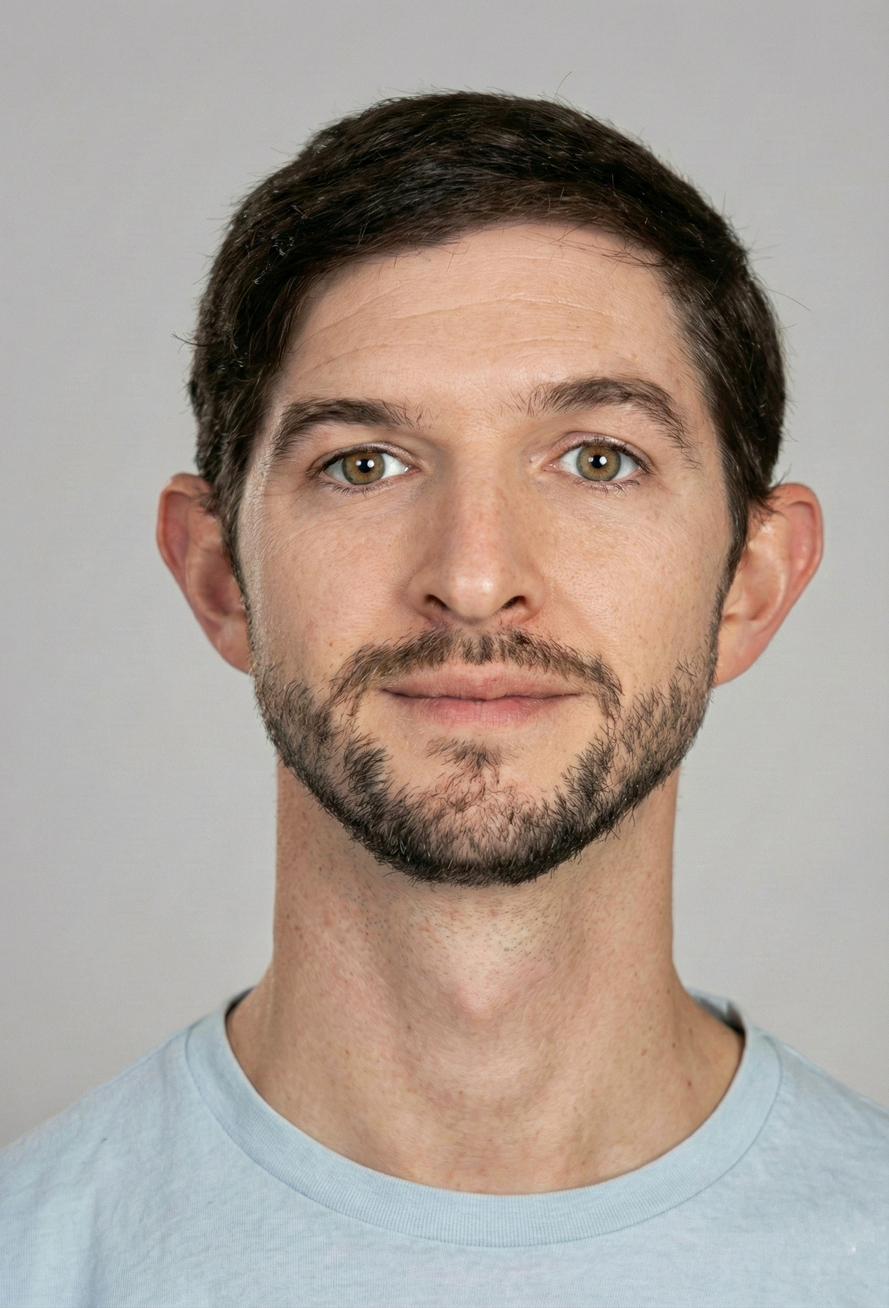
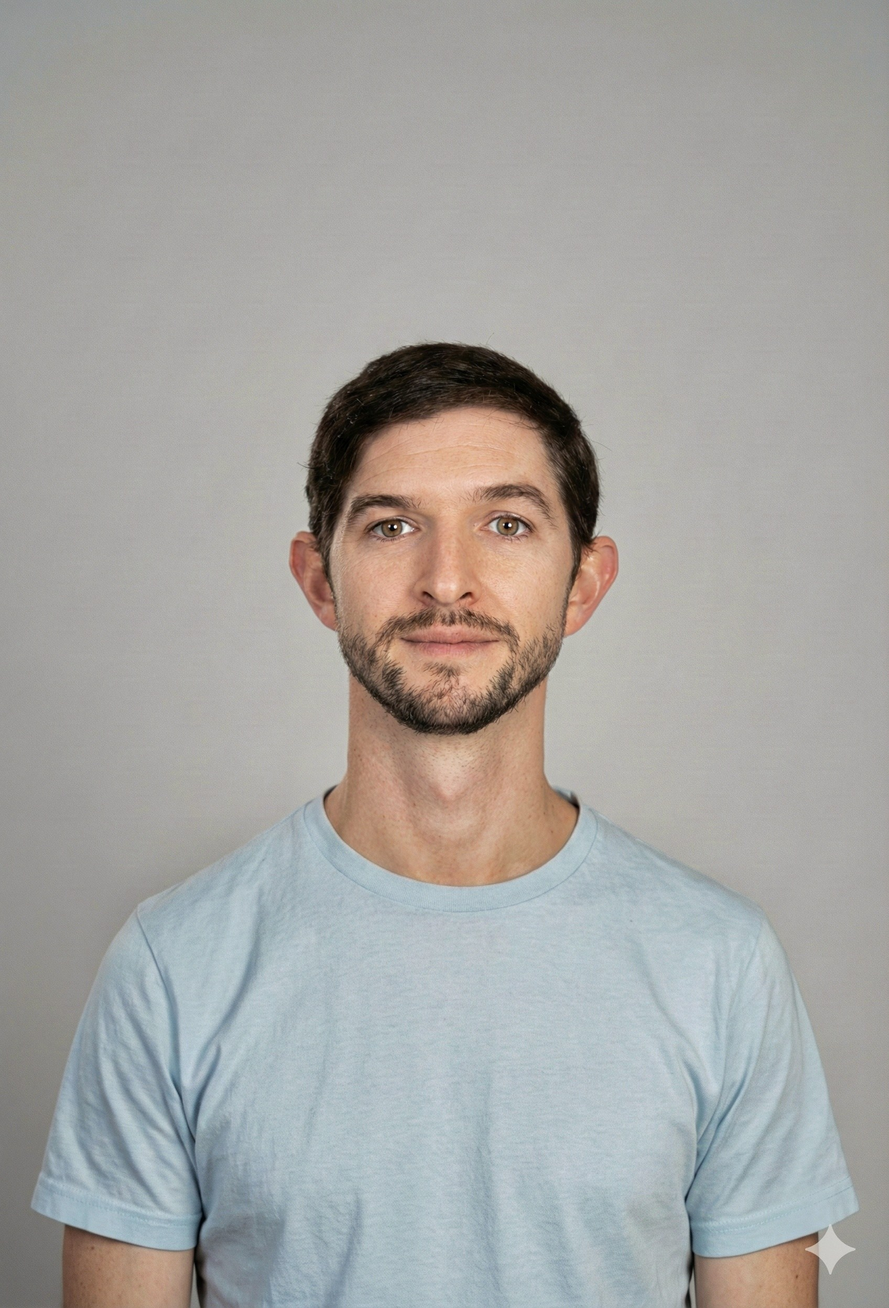
modified:   assets/images/jjvp.jpg 	modified:   index-es.html 	modified:   index.html 	modified:   style.css

diff --git a/index.html b/index.html
@@ -195,7 +195,7 @@
 
     <footer>
         <div class="container footer">
-            <p>&copy; 2026 Juan José Vásquez-Pacheco. Crafted for clarity and impact.</p>
+            <p>&copy; 2026 Juan José Vásquez-Pacheco. Peace by design. Justice through intelligence. Data for sovereignty and positive change.</p>
             <a class="deep-link" href="#hero">Back to top ↑</a>
         </div>
     </footer>

diff --git a/index-es.html b/index-es.html
@@ -195,7 +195,7 @@
 
   <footer>
     <div class="container footer">
-      <p>&copy; 2026 Juan José Vásquez-Pacheco. Diseñado para claridad e impacto.</p>
+      <p>&copy; 2026 Juan José Vásquez-Pacheco. Peace by design. Justice through intelligence. Data for sovereignty and positive change.</p>
       <a class="deep-link" href="#hero">Volver arriba ↑</a>
     </div>
   </footer>

diff --git a/style.css b/style.css
@@ -156,7 +156,7 @@ section {
     width: 100%;
     height: 100%;
     object-fit: cover;
-    object-position: 50% 44%;
+    object-position: 50% 40%;
     display: block;
     clip-path: circle(50% at 50% 50%);
 }
